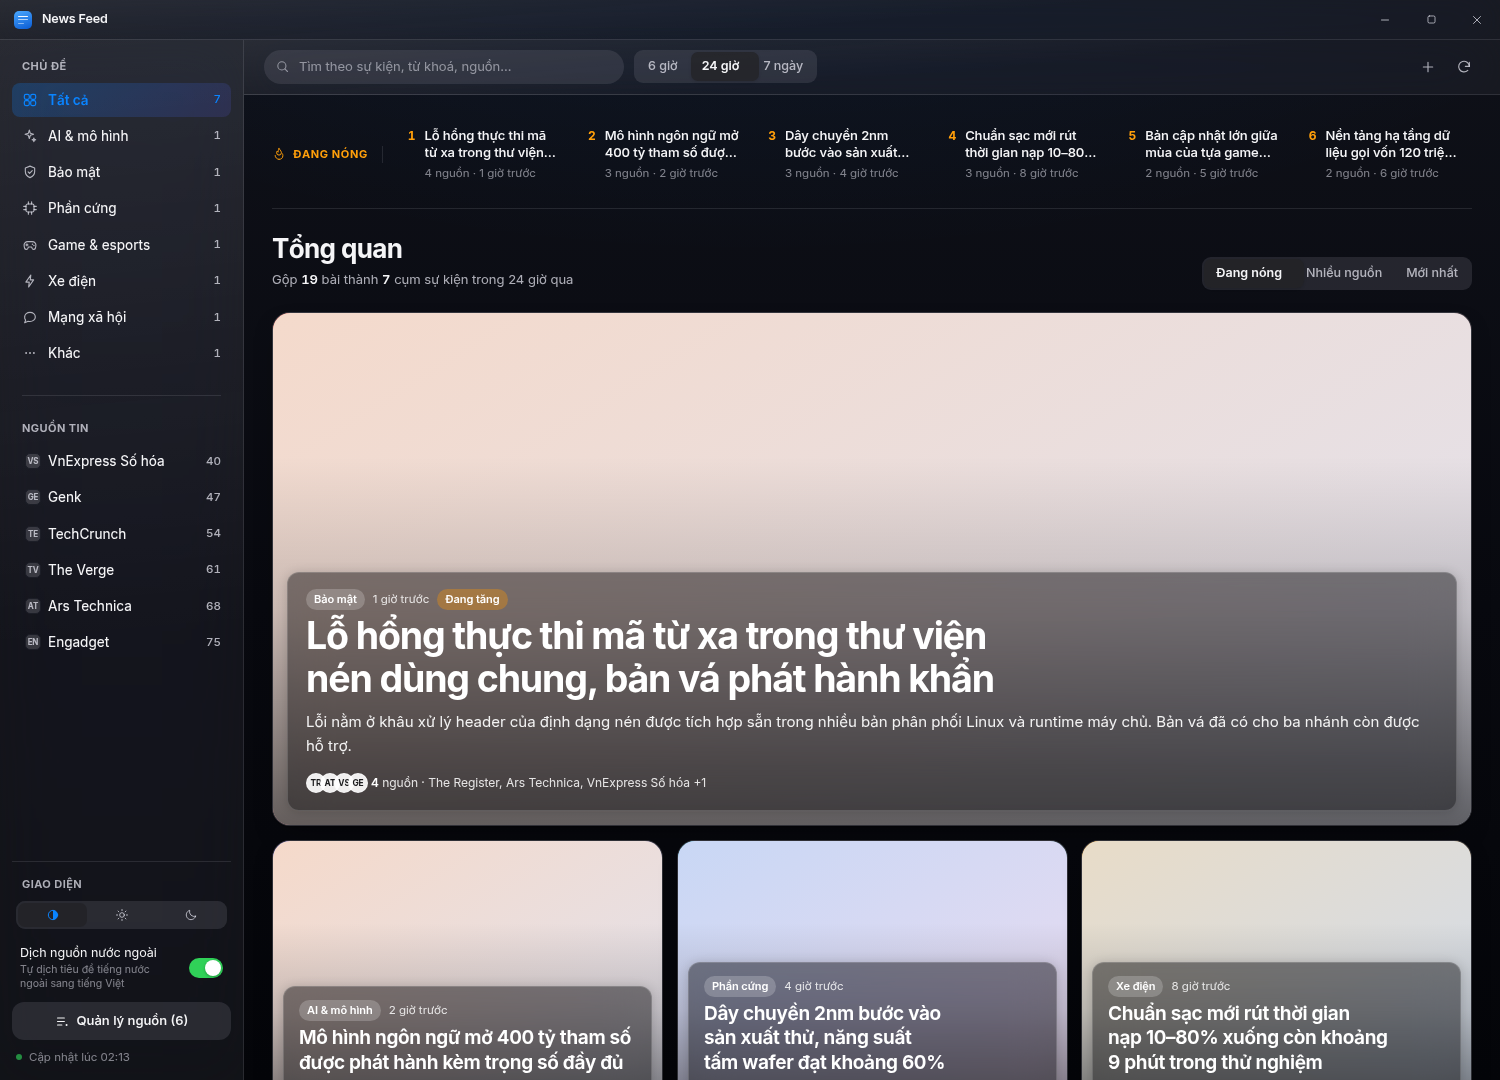
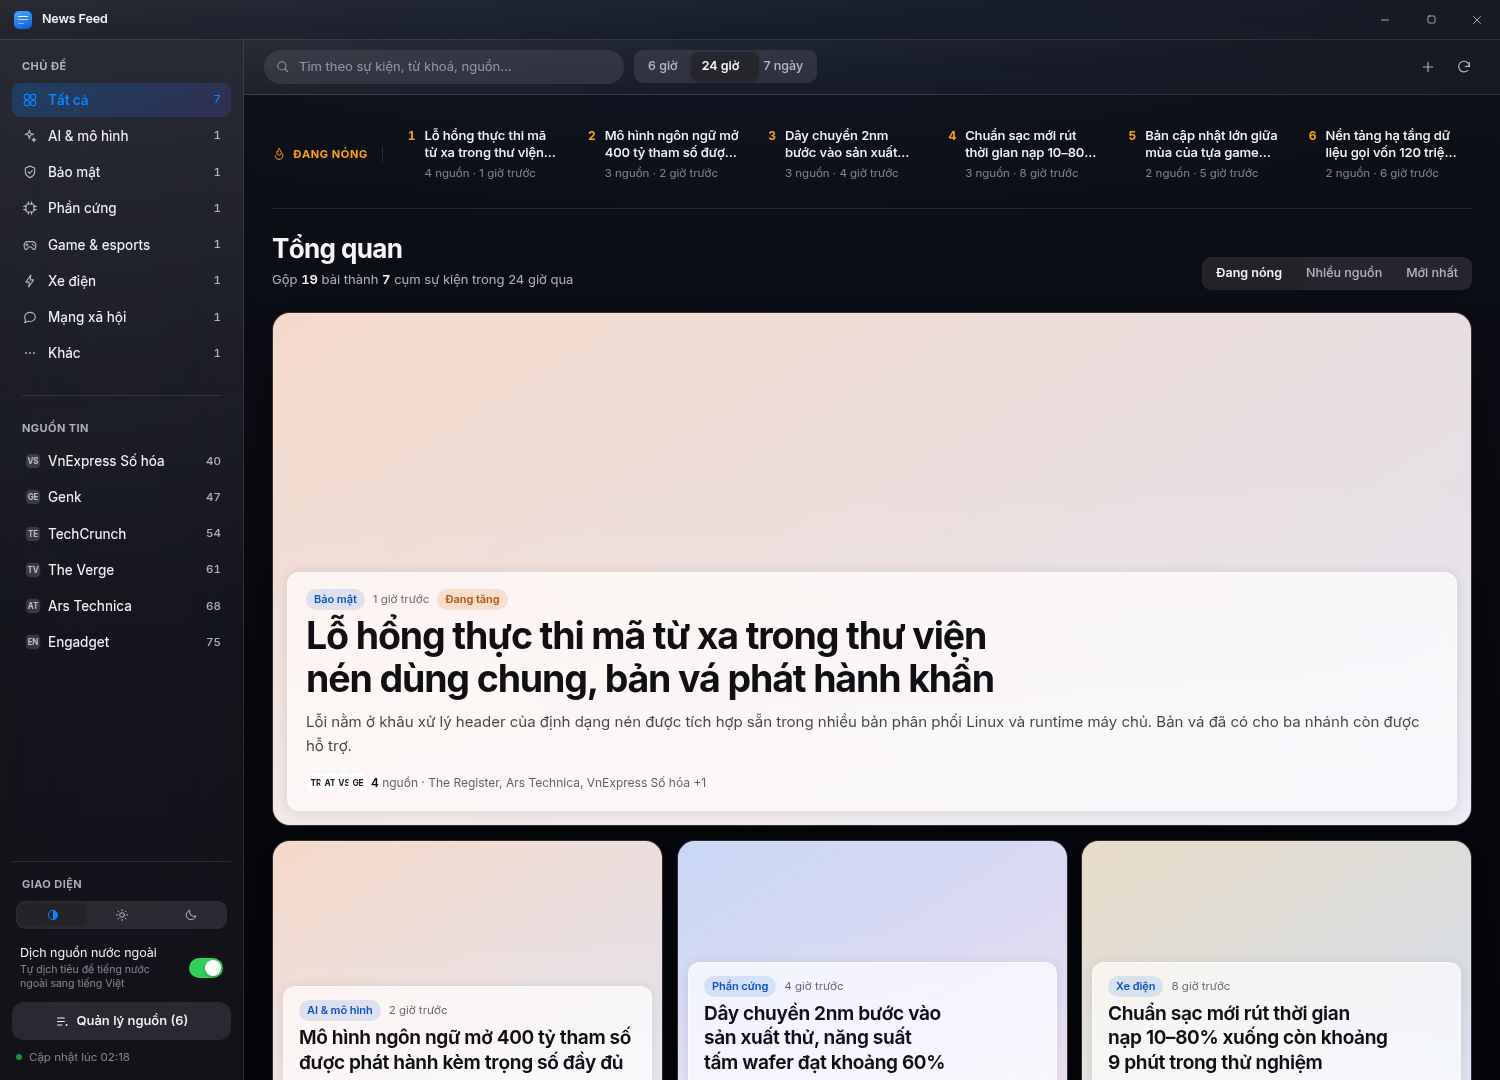
Đổi tấm kính trên thẻ tin sang sáng thay vì tối (v0.12.1)
Tấm kính ở đáy thẻ chuyển sang nền sáng với chữ tối, kèm lớp phủ chuyển dần
cũng đổi từ tối sang sáng. Vẫn giữ nguyên một chất liệu ở cả giao diện sáng
lẫn tối, vì nền của tấm này là ảnh bài chứ không phải nền của ứng dụng.

Đổi màu tấm kính là lật ngược cả bài toán tương phản: trước đây chữ trắng nên
trường hợp xấu nhất là ảnh trắng toát, giờ chữ tối nên xấu nhất là ảnh đen
tuyền. Đo lại trên ảnh đen tuyền: 10,0–11,8:1, rộng hơn hẳn mức 5,9–6,8:1 mà
bản chữ trắng đạt được trên ảnh trắng.

Nhờ biên rộng đó nên giảm được lớp phủ từ 0,58 xuống 0,34. Bản đầu để đậm
như cũ thì nửa dưới tấm ảnh bị trắng bệch, đúng cái ngược với ý ảnh phủ toàn
thẻ; mà tấm kính 0,76 vốn đã đủ đục để một mình bảo đảm tương phản, lớp phủ
chỉ còn việc làm mềm chỗ tiếp giáp.

Mọi màu chữ, nhãn chủ đề và huy hiệu nguồn bên trong tấm kính đều phải khai
lại theo nền sáng. Tốc độ cuộn không đổi: khung hình trung vị 17,6ms so với
18,6ms của bản trước.

Chụp lại hai ảnh dashboard trong README.

Claude-Session: https://claude.ai/code/session_01MD966JSNomz1eEWirJxpnf

Changed region(s): [[0.184, 0.4889, 0.9813, 0.7639], [0.184, 0.8861, 0.9813, 1.0]]

diff --git a/src/styles/app.css b/src/styles/app.css
@@ -482,26 +482,31 @@
   opacity: 0.6;
 }
 
-/* Lớp phủ tối dưới tấm kính. Không có nó thì một tấm ảnh sáng màu sẽ nuốt
-   mất chữ trắng, mà ảnh của báo thì không đoán trước được. */
+/* Lớp phủ sáng chuyển dần ở đáy thẻ.
+   Giữ nhẹ thôi: tấm kính vốn đã đủ đục để bảo đảm tương phản một mình, nên
+   lớp này chỉ còn việc làm mềm chỗ tiếp giáp. Đặt đậm như bản đầu thì nửa
+   dưới tấm ảnh bị trắng bệch, đúng cái ngược với ý ảnh phủ toàn thẻ. */
 .poster::after {
   content: "";
   position: absolute;
   inset: 0;
   pointer-events: none;
-  background: linear-gradient(to top, rgba(0, 0, 0, 0.58) 0%, rgba(0, 0, 0, 0.16) 42%, transparent 72%);
+  background: linear-gradient(to top, rgba(255, 255, 255, 0.34) 0%, rgba(255, 255, 255, 0.08) 46%, transparent 70%);
 }
 
+/* Tấm kính sáng, chữ tối. Giữ nguyên một chất liệu ở cả giao diện sáng lẫn
+   tối: nền của nó là ảnh bài chứ không phải nền của ứng dụng, nên nó không
+   có lý do gì để đổi theo chủ đề. */
 .card-body {
   position: relative;
   z-index: 1;
   margin: 10px;
   padding: 13px 15px 14px;
   border-radius: var(--r-md);
-  background: rgba(18, 18, 20, 0.56);
-  border: 1px solid rgba(255, 255, 255, 0.16);
-  box-shadow: 0 1px 12px rgba(0, 0, 0, 0.18);
-  color: #fff;
+  background: rgba(255, 255, 255, 0.76);
+  border: 1px solid rgba(255, 255, 255, 0.55);
+  box-shadow: 0 1px 12px rgba(0, 0, 0, 0.1);
+  color: #16161a;
 }
 
 /* Kính thật chỉ đặt ở tin hero và ba tin đặc tả, tức bốn thẻ, chứ không phải
@@ -512,10 +517,10 @@
    backdrop-filter tạo một lớp hợp ảnh riêng cho mỗi thẻ, không phải bán
    kính. Bốn thẻ thì cái giá đó không đáng kể.
    Tấm ở lưới bù lại bằng nền đục hơn một chút; đặt trên ảnh đã bị lớp phủ
-   làm tối thì mắt gần như không phân biệt được. */
+   làm sáng thì mắt gần như không phân biệt được. */
 .hero-card .card-body,
 .feature-card .card-body {
-  background: rgba(18, 18, 20, 0.48);
+  background: rgba(255, 255, 255, 0.68);
   backdrop-filter: blur(20px) saturate(150%);
   -webkit-backdrop-filter: blur(20px) saturate(150%);
 }
@@ -524,21 +529,20 @@
    được tính cho nền sáng hoặc nền tối của app, không phải cho nền ảnh. */
 .card-body .c-title,
 .card-body .hero-title,
-.card-body .feature-title { color: #fff; }
+.card-body .feature-title { color: #101014; }
 .card-body .c-summary,
-.card-body .hero-summary { color: rgba(255, 255, 255, 0.93); }
-.card-body .stamp { color: rgba(255, 255, 255, 0.84); }
-.card-body .source-line { color: rgba(255, 255, 255, 0.86); }
-.card-body .source-line b { color: #fff; }
-.card-body .pill { background: rgba(255, 255, 255, 0.2); color: #fff; }
-.card-body .pill.hot { background: rgba(255, 149, 0, 0.34); color: #fff; }
-.card-body .pill.quiet { background: rgba(255, 255, 255, 0.14); color: rgba(255, 255, 255, 0.86); }
-/* Huy hiệu nguồn: nền trắng đục, chữ viết tắt màu tối. Giữ nguyên token cũ
-   thì chữ tối nằm trên nền tối của tấm kính và biến mất hẳn. */
+.card-body .hero-summary { color: rgba(0, 0, 0, 0.72); }
+.card-body .stamp { color: rgba(0, 0, 0, 0.6); }
+.card-body .source-line { color: rgba(0, 0, 0, 0.62); }
+.card-body .source-line b { color: #101014; }
+.card-body .pill { background: rgba(0, 82, 204, 0.12); color: #0a52c4; }
+.card-body .pill.hot { background: rgba(214, 92, 0, 0.14); color: #b8500a; }
+.card-body .pill.quiet { background: rgba(0, 0, 0, 0.07); color: rgba(0, 0, 0, 0.58); }
+/* Huy hiệu nguồn: viền sáng để tách khỏi tấm kính, chữ viết tắt màu tối. */
 .card-body .avatar {
-  background: rgba(255, 255, 255, 0.92);
+  background: rgba(255, 255, 255, 0.95);
   color: #1c1c1e;
-  border-color: rgba(255, 255, 255, 0.42);
+  border-color: rgba(255, 255, 255, 0.9);
 }
 .card-body .avatar.has-logo { background: #fff; }
 
